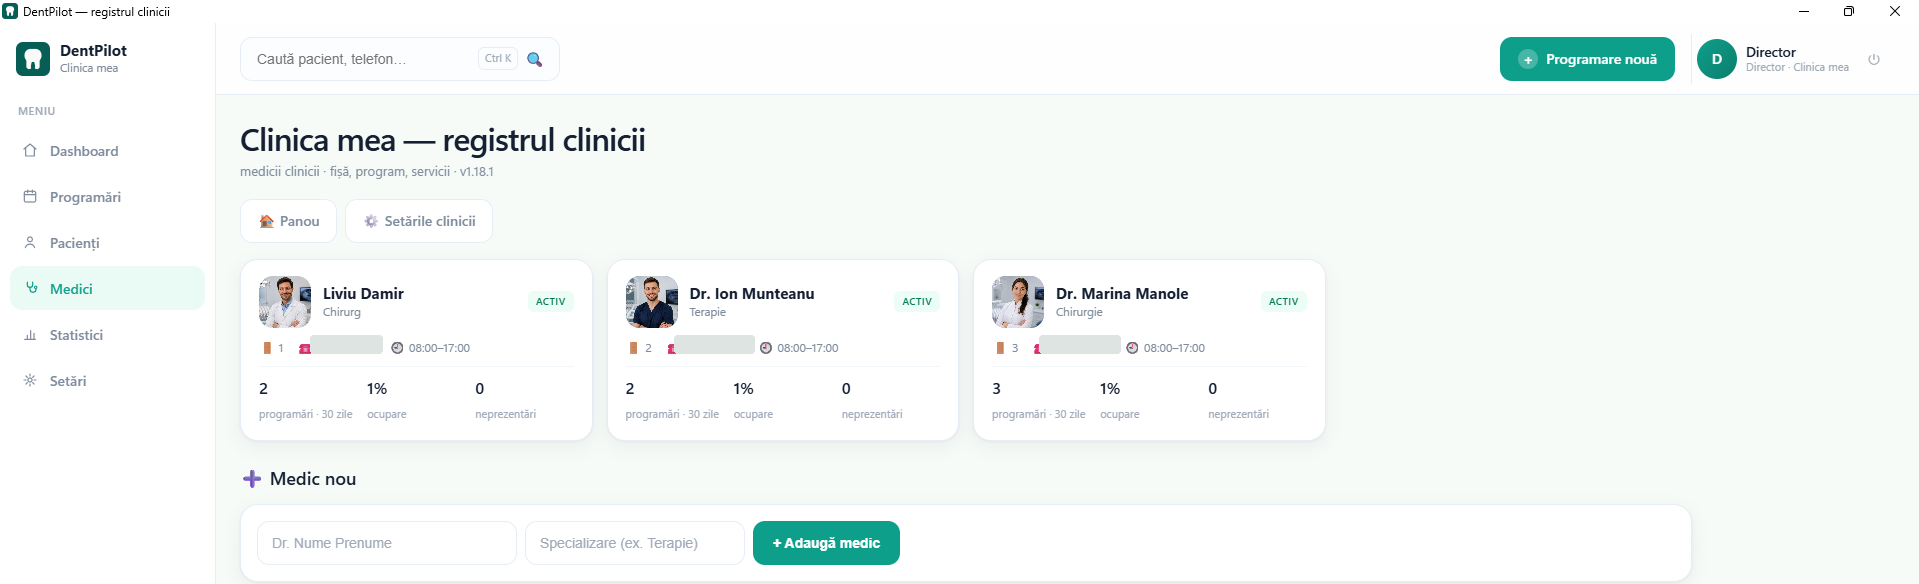
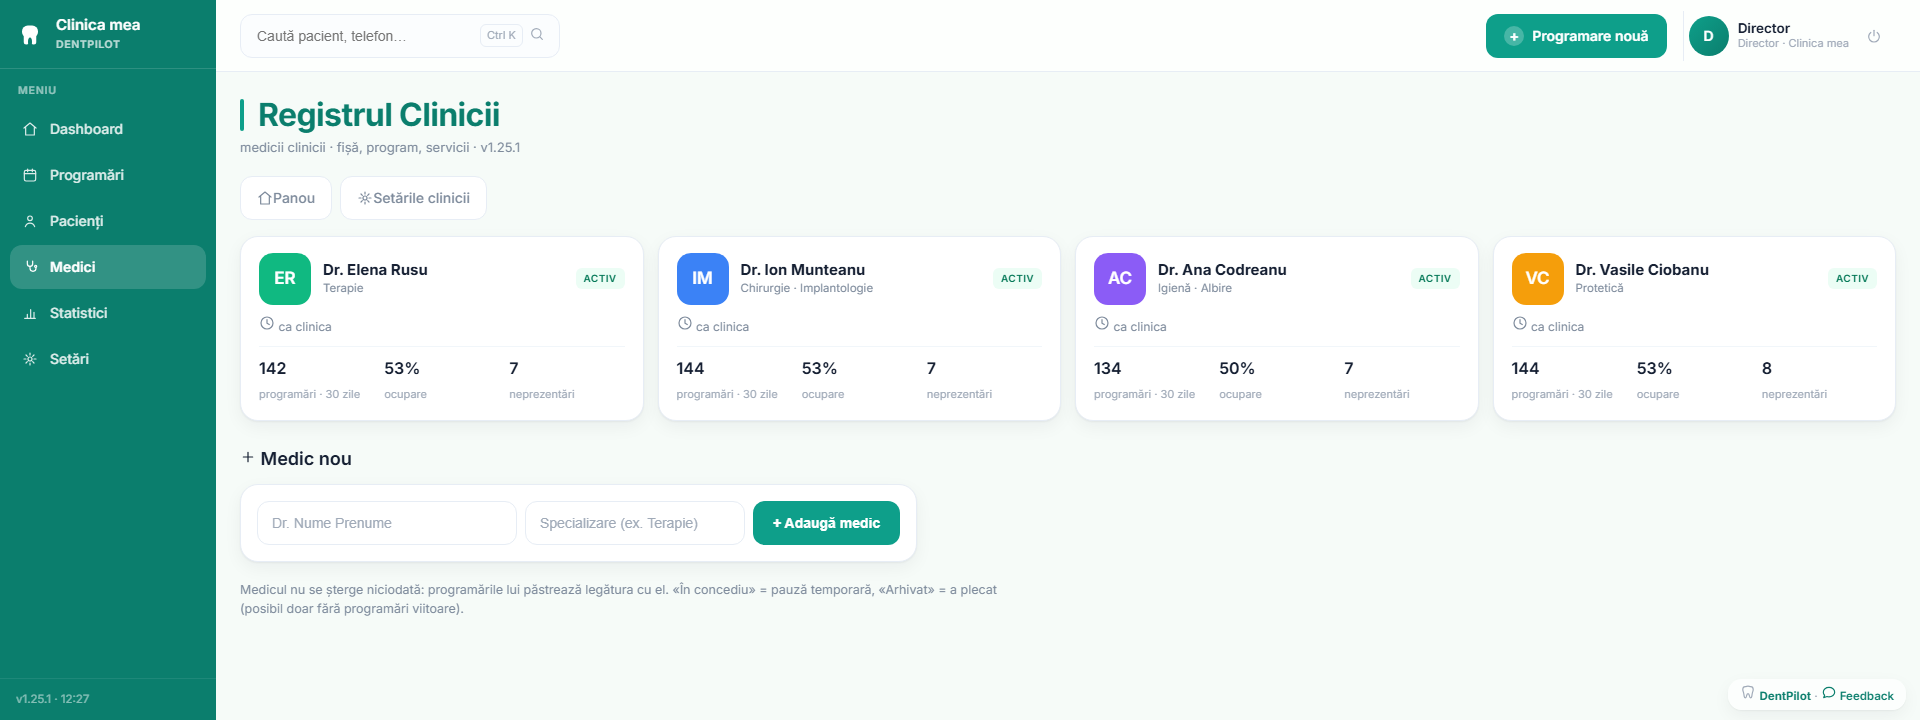
The public face catches up with the program: v1.25.1 screenshots and the text that matches them
The screenshots in this README were taken on 1.18.1, two design
generations back: no coloured rail on the day grid, no two-line visit, no
waiting minutes, no surface states, no bridge - and a schedule that still
reloaded itself whole every twelve seconds.

All seven are retaken on 1.25.1 from the staged demo clinic, which was
rebuilt at the same time. The old stand seeded a fortnight of visits
every other day, and the numbers it produced were honest and useless: 4%
chair occupancy, a flat line of zeros between the working days, 3 250 MDL
of income for a whole week. It now stages two months of an ordinary
four-chair clinic - about 250 patients, five to six visits per doctor per
day with each doctor's own gaps and days off, no-shows spread by
appointment rather than round-robin, payments dated across the period and
a card index that was not all created this morning. The gauge reads 56%
and the tiles compare to a week that actually happened.

Text changes, section by section: the live pages poll and swap a
fingerprinted fragment instead of reloading (and why that forces the
"now" line and the waiting counter into the browser); a patient may have
no phone; search understands a dictated birth date and digits in the
notes; a tooth carries a state, a mark and a state per surface, which are
three different questions; a bridge is a layer over the teeth and prints
as Co/D codes plus a line under the 043/e grid; the card index itself can
[…]

diff --git a/README.md b/README.md
@@ -13,29 +13,34 @@ no account, no subscription and no server holding patient data.
 
 > Screenshots and `clinic.json` in this repo use synthetic data — invented patients,
 > invented doctors. Phone numbers, e-mail addresses and national ID numbers are masked in
-> the screenshots. One `clinic.json` = one clinic.
+> the screenshots. One `clinic.json` = one clinic. The shots below are **v1.25.1**, taken
+> on a staged clinic with two months of work behind it.
 
 ## Screenshots
 
 **Patient card** — odontogram, treatment plan, anamnesis and the activity feed, with
-medical alerts and insurance pinned in the header:
+medical alerts and insurance pinned in the header. Here 25 is missing and 24/26 carry the
+abutments of a metal-ceramic **bridge**, drawn as the brace a dentist would put on paper:
 
 ![Patient card](screenshots/patient-card.png)
 
 **Form 043/e, printed from the card** — letterhead, general data, a numeric odontogram
 with its legend, the plan and the visit journal come from the database; the yellow gaps
-and the blank rows at the bottom stay for the pen:
+and the blank rows at the bottom stay for the pen. The bridge prints twice: as codes in
+the formula (`Co Cor` / `D A` / `Co Cor`) and as its own line under the grid:
 
 <img src="screenshots/fisa-043e.png" width="620" alt="Printed 043/e form">
 
-**Dashboard** — the day timeline: one column per doctor, blocks drawn to scale by duration,
-the "now" line, tiles with a trend against yesterday and a 14-day sparkline each, the
-doctors on duty with their chair occupancy, and today's agenda in the right rail:
+**Dashboard** — the day timeline: one column per doctor, every visit drawn to scale by
+duration and read in two lines (who, then when · how long · what), coloured by the kind of
+work with the status said in words next to it, the "now" line, tiles with a trend against
+yesterday and a 14-day sparkline each, the doctors on duty with their chair occupancy, and
+today's agenda in the right rail. The page keeps itself current without reloading:
 
 ![Dashboard](screenshots/admin-dashboard.png)
 
-**Patient list** — filters by doctor, status and channel, derived statuses, a side preview
-with treatment-plan progress and CSV export:
+**Patient list** — filters by doctor, status, channel and balance, derived statuses, a side
+preview with treatment-plan progress and CSV export:
 
 ![Patient list](screenshots/patient-search.png)
 
@@ -58,10 +63,18 @@ Four views of the schedule:
 
 1. **Dashboard** — the day timeline: one column per doctor, every visit drawn to scale by
    its duration, a red "now" line on today, and overlapping visits split side by side so
-   nothing hides behind anything. Above it, day tiles with a trend against yesterday and a
-   **14-day sparkline** each, so a number reads as a trend rather than as today's accident;
-   each tile is clickable and opens the filtered list. Hours that a long visit runs through
-   show *⏳ ocupat* instead of a "+". Each doctor's card carries a **chair-occupancy bar** —
+   nothing hides behind anything. A visit reads in **two lines** — the patient first, then
+   hour · duration · service — because the name is what the desk looks for; the status is
+   spelled out as a word next to its colour, and a patient marked *a venit* carries how
+   long they have been waiting (silent for the first five minutes, amber from fifteen: "a
+   venit and was called in at once" is not waiting, and a counter that shows zero on every
+   arrival stops being read). A free slot says what a click will do rather than showing a
+   bare "+"; a block is coloured by the *kind* of work, with a no-show and acute pain
+   overriding that to red; and the navigation rail alongside wears the clinic's own colour
+   end to end. Above it, day tiles with a trend against yesterday and a **14-day
+   sparkline** each, so a number reads as a trend rather than as today's accident; each
+   tile is clickable and opens the filtered list. Each doctor's card carries a
+   **chair-occupancy bar** —
    busy minutes over that doctor's working minutes, the same formula and the same
    `work_minutes()` the *Stats* page uses, so the two screens can never quote different
    percentages for the same doctor. The right rail holds the month calendar and **today's
@@ -81,20 +94,39 @@ Returning a cancelled visit to an active status is refused if the interval has m
 been taken: the journal shows an "interval occupied" banner instead of silently
 double-booking.
 
-Only the pages that show a live schedule reload themselves every 12 seconds. That is a
-whitelist, not a default: an auto-reload on a settings page or a patient card costs the
-user their scroll position, an open dialog and a half-typed form, which it did three times
-before the rule was written down.
+Only the pages that show a live schedule keep themselves current, and they no longer
+*reload*: the server wraps the live part in `<div id="live" data-hash=…>`, the browser asks
+the same URL every 12 seconds with an `X-DP-Live` header and gets **204 when the
+fingerprint has not changed**, swapping the fragment only when it has. The pilot clinic
+reported the reason: a whole page reloading every twelve seconds flickers all day, and it
+took the scroll position, an open dialog and a half-typed form with it.
+
+Two consequences are load-bearing rather than cosmetic. Anything that changes continuously
+— the "now" line, the waiting minutes — is drawn by the browser, because a minute counter
+rendered by the server would make the fingerprint differ on every poll and bring the
+flicker back through the back door. And inline scripts that carry page data are marked
+`data-live` and declare `var`, not `const`: the swap re-executes them, and a repeated
+`const` is a silent `SyntaxError` that would stop a freshly arrived appointment from
+opening.
 
 ### Patient list
 
 `/admin/search` — the clinic's whole base in one working table: avatar and name, phone,
-birth date, doctor, last visit (with the next one flagged in green), status, pages. Filters
-by doctor, status and channel; sorting by name or by last visit; the current selection can
-be exported to CSV or previewed in a side panel that shows the treatment-plan progress,
-alerts and documents without leaving the list. Search by name or phone digits (any format),
-e-mail or file number, ignoring Romanian diacritics and case ("Balan" finds "Bălan").
-Available from the header of any page, or with Ctrl+K.
+birth date, doctor, last visit (with the next one flagged in green), balance, status,
+pages. Filters by doctor, status, channel and balance; sorting by name or by last visit;
+the current selection can be exported to CSV or previewed in a side panel that shows the
+treatment-plan progress, alerts and documents without leaving the list. Search by name or
+phone digits (any format), e-mail or file number, ignoring Romanian diacritics and case
+("Balan" finds "Bălan"). It also understands **a birth date the way it is dictated at the
+desk** (`01.01.2003`, and `1.1.2003` too) and looks for digits inside the patient's notes —
+which is where the second person on a family number is written down. Available from the
+header of any page, or with Ctrl+K.
+
+**A patient may have no phone at all.** The booking and patient forms carry a *fără
+telefon* checkbox, and only that checkbox makes an empty field an intention: a bare empty
+phone is still refused, because it is far more often a half-filled form than a real
+absence. Phoneless patients are stored with `NULL` rather than an empty string — an empty
+digit key would have quietly merged every one of them into a single card.
 
 **Patient status is derived, not stored**: archived → medical alert → unfinished plan → no
 visit for a year → active. Nothing to keep in sync, and no status that says "in treatment"
@@ -114,11 +146,31 @@ then a two-column workspace.
   itself when a child's tooth already has records. Each tooth is drawn as an actual tooth in
   SVG rather than a coloured box: roots follow anatomy, an implant replaces the root with a
   threaded screw, *in treatment* draws the root-canal axes, an extraction a cross, a missing
-  tooth a dashed ghost. Clicking a tooth sets one of eight states with the doctor, the
-  affected **surfaces** (M, O, D, V, L) and a short note; the dialog lists that tooth's own
-  history. The doctor's name is stored as a snapshot, so renaming a doctor never rewrites
-  tooth history. All teeth are generated from one description rather than drawn — see
-  *Design decisions*.
+  tooth a dashed ghost. Clicking a tooth sets its state with the doctor and a short note;
+  the dialog lists that tooth's own history. The doctor's name is stored as a snapshot, so
+  renaming a doctor never rewrites tooth history. All teeth are generated from one
+  description rather than drawn — see *Design decisions*.
+
+  Three things there answer three *different* questions, and each of them used to be one
+  column too few:
+  - **The state** says what is wrong with the tooth. **A mark** says what is being done to
+    it. *În tratament* was the eighth value of the state list until a dentist marked
+    caries, came back to say the work had started, and the caries disappeared — from the
+    chart, from the ledger and from the 043/e that gets signed. Marks are a set, so a
+    second one ("under observation", "referred") needs no column and no migration.
+  - **Each surface carries its own state**, not a bare list of letters next to one word.
+    Caries mesially and a filling occlusally is an ordinary finding; "MO · Carie" left the
+    reader to assume both were caries. The printed form and the Law 195 export spell a
+    mixture out instead of collapsing it, and the detailed page has an occlusal view where
+    the marks sit on the crown rather than in the middle of the tooth.
+  - **A bridge** (*punte*) is a layer over the teeth, in its own table: an abutment over
+    caries and a pontic over a missing tooth leave both teeth their own truth. Roles are
+    per tooth and an abutment may stand in the middle of the span — the pilot's dentist
+    dictated the canon, 47/45/43 abutments with 46/44 pontics. The server enforces one
+    arch, adjacent teeth, no primary teeth and at least one abutment, and it refuses
+    overlapping constructions out loud. Both screens draw the brace with its material over
+    the actual tooth buttons, which is what makes it survive the grid gap, the window
+    width and both views.
 - **Treatment plan** — tooth, procedure, doctor, price in MDL, due date. Three statuses
   (planned → in progress → done) move along a directed path the server validates as a pair
   (from, to), tabs filter by status with counts, the total of the *unfinished* plan is shown
@@ -157,7 +209,9 @@ then a two-column workspace.
 - **Fișa 043/e** (`/admin/patient/{id}/fisa043`) — the ministry form, order 828/2011: title
   block from the card, a numeric odontogram with a letter legend on the sheet itself, the
   plan, and the visit diary in chronological order with a signature column and blank rows
-  after it.
+  after it. A tooth cell leads with the bridge code where there is one — `Co C` on a
+  decayed abutment, `D A` on a pontic over a missing tooth — the legend explains both, and
+  the brace is repeated under the grid as a line naming the span and its material.
 - **Informare și acord** — an information sheet for signature, filled with the patient's and
   the clinic's data. Treatment runs on a contract and on the law, so the consent checkboxes
   cover only marketing and photography; the grounds listed here must match the sheet on the
@@ -238,6 +292,13 @@ LAN it would break login outright, and the clinic's Wi-Fi encrypts one layer bel
   updates, and an FAQ page whose answers are versioned in the same commit as the behaviour
   they describe. `clinic.json` is rewritten atomically (tmp + `os.replace`, plus a `.bak`)
   and re-applied in-process — no restart, no hand-edited JSON.
+- **Appearance** (`Setări › Aspect`) — the clinic picks its own colour and uploads its
+  logo, which it may also hang in the middle of the journal's top bar (off by default: an
+  existing clinic must not wake up with a new header). The colour is a set of CSS variables
+  computed per clinic, including the text colour *on* the brand fill — which is why no rule
+  in the interface may hardcode the default green or a literal white: on a pale brand
+  colour that would print white text on a light background for exactly the clinic that
+  chose it, and never for the developer looking at the screen.
 - **Encrypted backup** — the whole clinic (database, files, profile) into one AES ZIP under
   the clinic's own password, written with `pyzipper`. It opens with 7-Zip on any machine
   **without DentPilot installed**, which is the point: a backup that only its own program can
@@ -276,13 +337,15 @@ services, prices and a Saturday off, zero code changes.
 ## Tests
 
 ```
-.venv-desktop\Scripts\python.exe tests\run_tests.py            # everything, ~95 s
+.venv-desktop\Scripts\python.exe tests\run_tests.py            # everything
 .venv-desktop\Scripts\python.exe tests\run_tests.py журнал     # one suite by name
 ```
 
-Around 670 checks, standard library only — no pytest, no httpx. `.venv-desktop` is the
-*build* environment, and whatever is installed there eventually ends up inside the exe;
-tests must also run where nobody can install packages.
+The run prints how many checks it did and how long it took — a figure written down here
+would be stale by the next feature, and the number only ever grows. Standard library only,
+no pytest and no httpx. `.venv-desktop` is the *build* environment, and whatever is
+installed there eventually ends up inside the exe; tests must also run where nobody can
+install packages.
 
 Each suite starts **its own server on a free port with its own temporary database** (Windows
 happily lets a second process bind a busy port and then routes requests to the first one, so
@@ -321,7 +384,8 @@ the exe, no ports open to the outside. Build with `Build-Desktop.ps1`.
   really protecting a *reused* PIN, not the database.
 - **Tamper signal on the auth file** — its SHA-256 lives in the database, and a mismatch at
   startup raises a banner for the director and a line in the activity log. It is a trace, not
-  a lock: whoever holds the file holds the unencrypted database next to it.
+  a lock: whoever holds the file is standing next to the database as well, and on a clinic
+  that has not turned encryption on, that database opens with any SQLite viewer.
 - **The Telegram token, when used, is encrypted with Windows DPAPI** — a stolen `dental.env`
   is dead on another machine. The flip side is written down rather than discovered: a
   reinstalled Windows or a different account makes that ciphertext unreadable forever, so
@@ -385,12 +449,24 @@ cloud edition it is inside the container with no volume behind it** — a
 `docker compose up -d --build` recreates the container and the uploads are gone, and
 `Backup-Db.ps1` dumps Postgres only. Add a volume before putting real files there.
 
-The database itself is still a plain SQLite file; disk encryption (BitLocker) is the measure
-in place today, and the program reports its status on the security page.
+**The card index itself can be encrypted** (`Setări › Criptarea evidenței`): the database
+moves to SQLCipher under a key the clinic never types, kept by Windows DPAPI. Three things
+follow from that and each one is a rule rather than a detail. The key dies with the Windows
+account — a reinstalled system, a new PC or a different account makes the ciphertext
+unreadable forever — so the only thing that saves the clinic is the **printed recovery
+sheet**, and the program therefore keeps a screen that runs when nothing else can, to take
+that code. The swap of the file itself is done by the launcher *before* the app starts,
+because replacing a database under an open connection with its `-wal`/`-shm` gives
+corruption that surfaces hours later. And nothing in the program may open `dental.db` with
+the plain `sqlite3` module any more; the backup and the launcher's auto-copy both had to
+learn that, one of them silently. Disk encryption (BitLocker) remains the measure for
+everything *around* the database, and the program reports its status on the security page.
 
 Access: the desktop journal is behind the PIN, and an empty `ADMIN_KEY` does not mean an open
-journal — the setup screen appears instead. The cloud edition refuses to start without
-`ADMIN_KEY` (HMAC cookie).
+journal — the setup screen appears instead, and only for a browser on the machine itself: on
+a clinic that has opened the journal to its own network, a first-run setup screen answering
+a second computer would hand the keys to whoever got there first. The cloud edition refuses
+to start without `ADMIN_KEY` (HMAC cookie).
 
 ## Stack
 
@@ -410,8 +486,9 @@ The parts that were not obvious, and what each one cost to get right.
 
 ### The odontogram is generated, not drawn
 
-32 permanent teeth, eight states each, 20 primary teeth on a second arch, and the two arches
-are mirror images. Drawing that by hand is dozens of files that drift apart the first time
+32 permanent teeth, each with a state of its own and a state per surface, 20 primary teeth
+on a second arch, two views, braces of bridges drawn across them, and the two arches are
+mirror images. Drawing that by hand is dozens of files that drift apart the first time
 the shape changes. Instead there is one contour per tooth class, a width coefficient and a
 root-count rule — upper molars three roots, lower molars and the upper first premolar two,
 everything else one — and the upper arch is the same code flipped
@@ -526,11 +603,26 @@ In the same spirit, *arrived* keeps the slot occupied rather than freeing the ho
 returning a cancelled visit to an active status is refused if the interval has meanwhile been
 taken.
 
+### A screen that refreshes itself has to be deterministic
+
+Replacing the twelve-second page reload with a poll-and-swap looked like a rendering
+change and turned out to be a rule about the *body* of a live page: with unchanged data it
+must produce byte-identical HTML, because its fingerprint is what decides whether anything
+gets replaced at all. One server-rendered minute counter — the "now" line, "waiting 7 min"
+— makes every fingerprint differ, every poll swap the fragment, and the flicker return
+through the back door, where it is invisible until somebody stands on the page for half a
+minute. So everything continuously changing moved into the browser, and everything the
+browser re-executes on a swap had to stop being a `const`.
+
+The second half of the rule is the reverse: a page that is never swapped must still be
+correct. The animation switch is a class on `<html>`, and any rule that depends on it has
+to leave the element in its **final** state when the class is absent — a static page is
+normal, not a breakage.
+
 ## Roadmap
 
 - SMS package: reminders and confirmations the clinic controls, which is what clinics ask for
   instead of a public booking link.
-- Cash report for the day, and a debt column in the patient list.
 - Storage periods and scheduled clean-up, the last open item under the new data-protection law.
 - Multi-tenant single instance (today: one lightweight compose stack per clinic).
 
